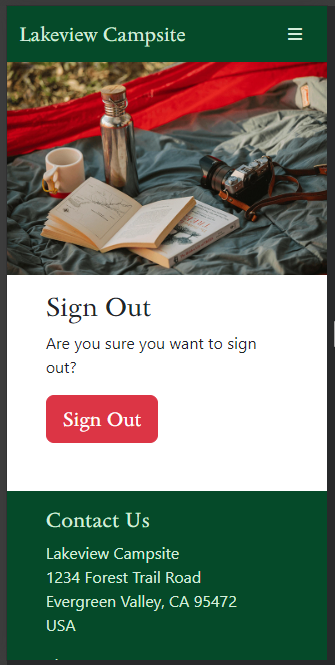
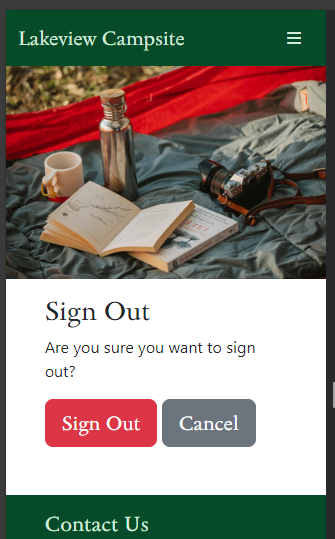
Doc: Add Error Pages and Future Features sections to README.

diff --git a/README.md b/README.md
@@ -257,7 +257,7 @@ This page is included as standard with the Django framework, but in this release
 ![Password reset page](static/images/readme/password-reset.png)
 
 ### The Sign Out Page
-When users click the sign out button in the nav bar they are directed to the `signout.html` page. Users must confirm the action by clicking the red "Sign Out" button after which they are redirected to the homepage. This is different from the previous two pages due to the fact that the user could be signing out from a page that required specific authenitcated access. Instead of showing the user a 403 error page, it was deemed a much better user experience to simply be returned to the homepage.
+When users click the sign out button in the nav bar they are directed to the `signout.html` page. Users must confirm the action by clicking the red "Sign Out" button after which they are redirected to the homepage. This is different from the previous two pages due to the fact that the user could be signing out from a page that required specific authenitcated access. Instead of showing the user a 403 error page, it was deemed a much better user experience to simply be returned to the homepage. A "Cancel" button allows the user to navigate back to the previous page without having to use their browser.
 
 ![Sign out page](static/images/readme/signout.png)
 
@@ -290,7 +290,12 @@ The authenticated user's username is displayed under the page's heading as a vis
         ![Departure date picker](static/images/readme/departure-picker-4.png)
 
 - Number of Guests
-    - The final form fields are those for the number of adults and children in the booking. These fields only accept non-negative integers; the adults field has a minimum value of one and the children field has a minimum value of zero. The maximum number of guests of either type is set to 10, to prevent the user booking in impossibly large guest numbers. See [Features to be Implemented](#features-to-be-implemented) for more on this.
+    - The next form fields are those for the number of adults and children in the booking. These fields only accept non-negative integers; the adults field has a minimum value of one and the children field has a minimum value of zero. The maximum number of guests of either type is set to 10, to prevent the user booking in impossibly large guest numbers. See [Features to be Implemented](#features-to-be-implemented) for more on this.
+
+- Terms and Conditions
+    - The final form field is a radio button with which the user can indicate that they have accepted the Terms and Conditions listed below.
+
+        ![Terms and Conditions radio button](static/images/readme/tac-radio.png)
 
 #### Form Validation
 Validating the data to be submitted by the user is done both on the back and front end. 
@@ -343,6 +348,11 @@ Validating the data to be submitted by the user is done both on the back and fro
             adults = models.PositiveIntegerField(default=1, validators=[MinValueValidator(1), MaxValueValidator(10)])
             children = models.PositiveIntegerField(default=0, validators=[MaxValueValidator(10)])
         ```
+
+- Terms and Conditions
+    - If the user does tick the radio button, the form is prevented from being submitted and a message is displayed reminding the user that they must accept the Terms and Conditions to proceed with the booking.
+
+        ![Terms and Conditions error message](static/images/readme/tac-error.png)
 
 #### Form Submission
 Upon valid data entry and submission, the data is POSTED to the database and a confirmation message is displayed to the user at the top of the page.
@@ -422,22 +432,68 @@ For a staff user, all bookings can be managed by navigating to the `manage_booki
 ![Manage bookings page](static/images/readme/manage-bookings-2.png)
 
 ### Error Pages
+Three error pages were created for this website:
+
+- A 404 page - Page not found
+- A 403 page - Permission denied
+- A 500 page - Internal Server Error
+
+The pages were customised with different header images that reflected the error encountered. For the 404 and 500 pages, a puzzled man looking at his phone in the middle of the woods was used to convey a sense of being lost or losing track of where one is.
+
+![404 Error Page](static/images/readme/error404.png)
+![500 Error Page](static/images/readme/error500.png)
+
+For the 403 error page, an image of a diamond mesh fence was used to convey a sense of forbidden access and keeping the user out of somewhere they shouldn't be.
+
+![403 Error Page](static/images/readme/error403.png)
+
+All three error pages have some brief text explaining why the user is seeing the error page, and that they should use click the large green "Home" button to bring them back to the homepage.
 
 ### Features to be Implemented
-- occupancy limits per accom type
-- images on booking page per type
-- add pricing information and page
-- upgrade calendar to booking style with available dates
-- diasble the form not just the submit button when not signed in
-- sort bookings by month for the admin user
-- have to accept terms and conditions to submit booking
-- modal to contact us if wanted to book >10 guests
-- set guests limits based on accommodation type selected.
-- replace toast messages with modals
-- robins tips
-- email funtionality
-- signout page extra button
-- include more details such as price and packages in my bookings details
+This project has many possible features that are beyond the scope of the current release. In the future, I hope to implement all of the below and more to create a fully functional and business-ready campsite website.
+
+#### Booking Page
+- **Booking Images**
+    - When a user selects an accommodation option in the booking form, an image of that type of accomodation is shown adjacent to the field. This would be achieved using JavaScript and adding an event listener that changes the image when the accommodation field is changed.
+- **Occupancy Limits**
+    - Limiting the number of guests per day and per accomodation type would be a much sought-after feature for a client. Not all campsites would have the same sized facilities or staff support. Ideally the user would be shown how many spaces are left for each accomodation type when they select their preferred booking dates. This could involve using a "Check Availibility" button which calls a custom method that returns the number of open accommodation spaces available to the user.
+    - Currently there is a maximum value of 10 guests set for the adults and children input fields. This is to prevent unreasonable booking in the website's current version. An intermediate step to improve this would be to show the user a modal window asking them to get in touch to discuss their booking if they wish to make a booking of more than 10 guests.
+- **Date Picker**
+    - Having a date field that shows a calendar indicating booking availibility would improve the current user experience. A JavaScript library such as [flatpickr](https://flatpickr.js.org/) would be one way of implementing this feature. Writing custom JavaScript to pass available dates to flatpickr would allow it to configure the choices available to the user.
+- **Extra Products**
+    - The extra services and packages described in the "Pricing Guide" section of `about.html` could be presented to the user as additional items they can purchase at the point of booking. This would involve updating the booking model with new fields and updating the booking form.
+- **Pricing**
+    - It would be much more beneficial to the user to see the price of their boooking before they click submit. Having a dynamically updating price total on the booking form would achieve this goal. JavaScript can be used to implement this feature by setting up event listeners to monitor changes in the form fields and writing a custom function to calculate the total price and update the figure using `.innerText` or a similar DOM property.
+- **Payment**
+    - For real-world application of this wesbite, adding a payment option such as the Stripe platform would be essential. This would involve setting up a Stripe account, integrating it on the backend with custom views and urls, and updating the booking form or creating a separate checkout form. Templates would also need to be created to deal with successful or failed payment attempts.
+- **Spam and Security**
+    - Implementing additional security for the booking form could involve the use of CAPTCHA (Completely Automated Public Turing test to tell Computers and Humans Apart). The [Google reCAPTHCA service](https://developers.google.com/recaptcha/) could be used to prevent malicious users from creating multiple accounts, flooding the database with false bookings, or running brute force login attempts for existing user accounts.
+- **Accepting T&Cs**
+    - The Terms and Conditions are currently listed below the booking form, and the user is told that by making a booking they are accepeting these terms; however, it would be better to have a checkbox that the user must click to indicate that they have read the Terms and Conditions before they can submit their booking.
+
+#### Manage Bookings Page
+- **Sort Bookings**
+    - In this release, all bookings are listed and sorted by arrival date in descending order; however, in a real-world application, there could be hundreds of bookings available to view to the staff user. It would be prefereable to have more control on how to sort the bookings list, e.g. view by month or by accomodation type. This may involve creating new classes in `booking/views.py` and having different buttons that the staff user can click to sort the bookings in different ways.
+
+#### User Accounts
+- **Email Functionality**
+    - Integrating an email service with the website will allow users to reset their password, to be sent details of their bookings, and to receive other important messages, e.g. reminders before their arrival.
+- **Custom Sign Up Form**
+    - The sign up form can be imroved both in its formatting and content. It would be preferable to have the user enter thier first and last name upon signup. The current labels and fields can display inconsistently (see [Bug #1](/TESTING.md#bugs)) and it would give a better user experience to have the sign up form look consistent across all screen sizes.
+- **Edit Account Details**
+    - An app to deal with user accounts will be created in a future release. It will allow users to update thier personal details, payment methods, and delete their accounts.
+
+#### Website Content
+- **Image Gallery**
+    - Add a new webpage containing various images of the campsite which will encourage site users to choose this campsite for the next holiday. Use of Bootstrap grips and carousels could make this a very pleasing webpage to browse.
+- **Manage Campsite Information**
+    - For a staff user, functionality can be written that allows them to directly edit the website content from the front end. This would involve writing custom forms that will replace the content of a certain HTML element with the content entered by the staff user with the use of a rich text editor package, e.g. [summernote](https://summernote.org/)
+
+#### Reviews App
+- Users should be able to leave reviews for the campsite if they have had at least one booking. Users would have to be logged in and the current time be after the departure date of their first booking before being able to access the review form. Staff users will be able to approve reviews before they are published to the site.
+- This will involve creating a reviews model and associated views to allow users to edit and delete reviews.
+- The most recent reviews will be displayed on the homepage. Site visitor can view a separate webpage containing all reviews, paginated to keep the page looking tidy.
+
 
 ## Technologies Used
 ### Languages
